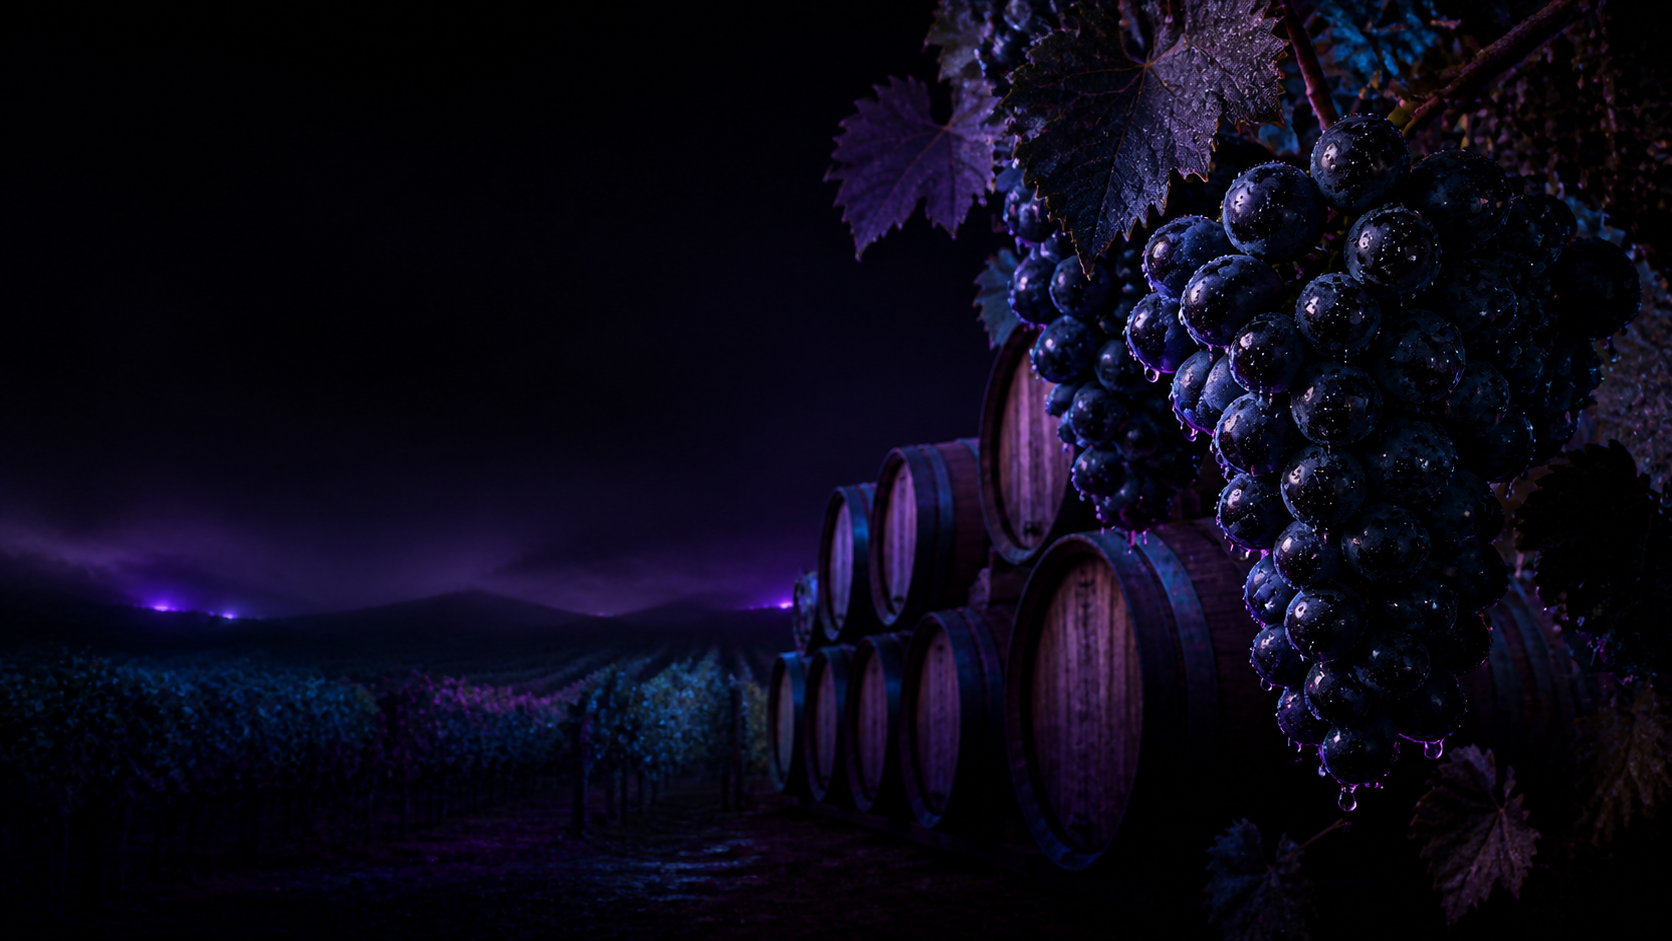
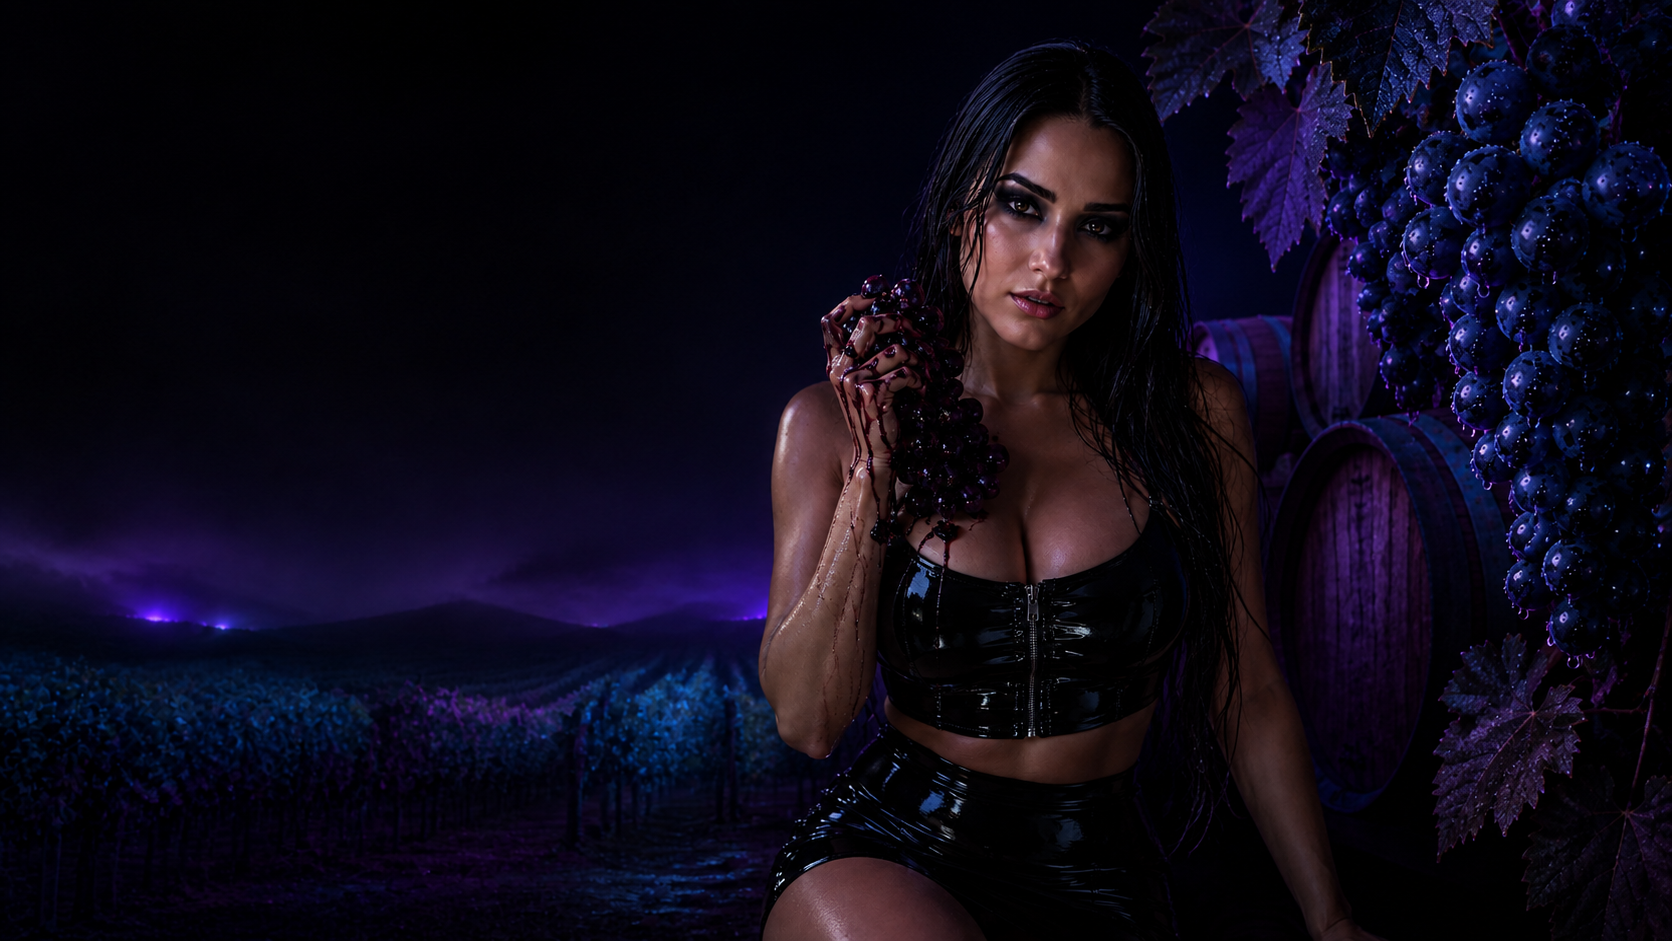
small grape fixes

diff --git a/web/templates/only_grapes.html b/web/templates/only_grapes.html
@@ -130,7 +130,7 @@
     {% if videos %}<section class="video-grid">
     {% for video in videos %}{% set video_comments = comments_by_video.get(video.id, []) %}
     <article class="video-card" id="video-{{ video.id }}">
-        <video controls preload="metadata" playsinline poster="{{ url_for('only_grapes_poster', video_id=video.id) }}"><source src="{{ url_for('only_grapes_video', video_id=video.id) }}" type="video/mp4"></video>
+        <video controls preload="metadata" playsinline data-play-url="{{ url_for('only_grapes_video_played', video_id=video.id) }}" poster="{{ url_for('only_grapes_poster', video_id=video.id) }}"><source src="{{ url_for('only_grapes_video', video_id=video.id) }}" type="video/mp4"></video>
         <div class="video-info"><h2>{{ video.title }}</h2>{% if video.description %}<p>{{ video.description }}</p>{% endif %}</div>
         <section class="comments" aria-label="Comments for {{ video.title }}">
             <div class="comments-head"><h3>Comments</h3><span class="comment-count">{{ video_comments|length }}</span></div>
@@ -147,6 +147,16 @@
 </div></main>
 {% endif %}
 <footer>{{ content.only_grapes_ai_notice }}</footer>
+{% if page == 'content' %}<script>
+document.querySelectorAll('video[data-play-url]').forEach((video) => {
+    video.addEventListener('playing', () => {
+        if (video.dataset.playCounted === '1') return;
+        video.dataset.playCounted = '1';
+        fetch(video.dataset.playUrl, {method: 'POST', credentials: 'same-origin', keepalive: true})
+            .catch(() => { video.dataset.playCounted = '0'; });
+    });
+});
+</script>{% endif %}
 {% endif %}
 </body>
 </html>

diff --git a/web/templates/only_grapes_admin.html b/web/templates/only_grapes_admin.html
@@ -90,9 +90,10 @@
         <div class="flex items-center gap-2">
             <label class="inline-flex items-center gap-2 px-3 py-2 text-gray-300 text-sm"><input type="checkbox" name="published" value="1" {% if video.published %}checked{% endif %}> Published</label>
             <button class="px-4 py-2 bg-discord-lighter hover:bg-gray-600 text-white rounded-lg text-sm">Save</button>
+            <button type="submit" name="action" value="optimize_video" class="px-3 py-2 border border-purple-500/40 bg-purple-500/10 text-purple-200 rounded-lg text-sm" title="Move the MP4 index to the beginning without re-encoding">Optimize playback</button>
             <button type="submit" name="action" value="delete_video" onclick="return confirm('Permanently delete this video?');" class="px-3 py-2 bg-red-500/15 border border-red-500/30 text-red-300 rounded-lg text-sm">Delete</button>
         </div>
-        <p class="lg:col-span-3 text-gray-600 text-xs">{{ video.original_filename }} · {{ video.duration_label }} · {{ video.size_label }}</p>
+        <p class="lg:col-span-3 text-gray-600 text-xs">{{ video.original_filename }} · {{ video.duration_label }} · {{ video.size_label }} · {{ video.play_count or 0 }} play{{ '' if (video.play_count or 0) == 1 else 's' }}</p>
     </form>
     {% endfor %}</div>
     {% else %}<p class="px-5 py-12 text-center text-gray-500">No videos uploaded yet.</p>{% endif %}

diff --git a/web/app.py b/web/app.py
@@ -215,7 +215,7 @@ def create_app(db: Database, bot=None) -> Quart:
     os.makedirs(only_grapes_video_dir, exist_ok=True)
     os.makedirs(only_grapes_asset_dir, exist_ok=True)
     for partial_name in os.listdir(only_grapes_video_dir):
-        if partial_name.endswith(".part"):
+        if partial_name.endswith((".part", ".optimized.mp4")):
             try:
                 os.remove(os.path.join(only_grapes_video_dir, partial_name))
             except OSError:
@@ -2024,6 +2024,21 @@ def create_app(db: Database, bot=None) -> Quart:
         )
         await proc.communicate()
 
+    async def _only_grapes_faststart(source_path: str, output_path: str) -> None:
+        proc = await asyncio.create_subprocess_exec(
+            "ffmpeg", "-y", "-v", "error", "-i", source_path,
+            "-map", "0", "-c", "copy", "-movflags", "+faststart", output_path,
+            stdout=asyncio.subprocess.DEVNULL,
+            stderr=asyncio.subprocess.PIPE,
+        )
+        _stdout, stderr = await proc.communicate()
+        if proc.returncode != 0 or not os.path.isfile(output_path):
+            detail = stderr.decode(errors="replace").strip()
+            raise ValueError(
+                "The MP4 could not be prepared for web playback."
+                + (f" {detail[-300:]}" if detail else "")
+            )
+
     @app.route("/only-grapes/assets/<filename>")
     async def only_grapes_asset(filename):
         from quart import abort, send_from_directory
@@ -2220,6 +2235,17 @@ def create_app(db: Database, bot=None) -> Quart:
             abort(404)
         return await send_file(path, mimetype="video/mp4", conditional=True)
 
+    @app.route("/only-grapes/video/<int:video_id>/played", methods=["POST"])
+    async def only_grapes_video_played(video_id: int):
+        from quart import abort
+        if not await _only_grapes_enabled() or not await _only_grapes_current_user():
+            abort(404)
+        video = await db.get_only_grapes_video(video_id)
+        if not video or not video.get("published"):
+            abort(404)
+        await db.increment_only_grapes_video_play_count(video_id)
+        return "", 204
+
     @app.route("/only-grapes/poster/<int:video_id>")
     async def only_grapes_poster(video_id: int):
         from quart import abort, send_file
@@ -2312,6 +2338,9 @@ def create_app(db: Database, bot=None) -> Quart:
                 else:
                     stored_name = f"{uuid.uuid4().hex}.mp4"
                     temp_path = os.path.join(only_grapes_video_dir, stored_name + ".part")
+                    optimized_path = os.path.join(
+                        only_grapes_video_dir, stored_name + ".optimized.mp4"
+                    )
                     final_path = os.path.join(only_grapes_video_dir, stored_name)
                     try:
                         await upload.save(temp_path)
@@ -2321,7 +2350,10 @@ def create_app(db: Database, bot=None) -> Quart:
                         duration = await _only_grapes_video_duration(temp_path)
                         if duration <= 0:
                             raise ValueError("The uploaded file is not a playable MP4 video.")
-                        os.replace(temp_path, final_path)
+                        await _only_grapes_faststart(temp_path, optimized_path)
+                        os.replace(optimized_path, final_path)
+                        os.remove(temp_path)
+                        size = os.path.getsize(final_path)
                         poster_path = os.path.join(
                             only_grapes_video_dir,
                             os.path.splitext(stored_name)[0] + ".square.jpg",
@@ -2349,10 +2381,14 @@ def create_app(db: Database, bot=None) -> Quart:
                     except ValueError as exc:
                         if os.path.isfile(temp_path):
                             os.remove(temp_path)
+                        if os.path.isfile(optimized_path):
+                            os.remove(optimized_path)
                         await flash(str(exc), "error")
                     except Exception as exc:
                         if os.path.isfile(temp_path):
                             os.remove(temp_path)
+                        if os.path.isfile(optimized_path):
+                            os.remove(optimized_path)
                         print(f"[only-grapes] Video upload failed: {exc}", flush=True)
                         await flash("The video could not be stored.", "error")
             elif action == "update_video":
@@ -2363,6 +2399,31 @@ def create_app(db: Database, bot=None) -> Quart:
                     published=form.get("published") == "1",
                 )
                 await flash("Video updated.", "success")
+            elif action == "optimize_video":
+                video_id = int(form.get("video_id") or 0)
+                video = await db.get_only_grapes_video(video_id)
+                if not video:
+                    await flash("Video not found.", "error")
+                else:
+                    filename = os.path.basename(video["stored_filename"])
+                    path = os.path.join(only_grapes_video_dir, filename)
+                    optimized_path = path + ".optimized.mp4"
+                    try:
+                        if filename != video["stored_filename"] or not os.path.isfile(path):
+                            raise ValueError("The stored video file is missing.")
+                        await _only_grapes_faststart(path, optimized_path)
+                        os.replace(optimized_path, path)
+                        await db.update_only_grapes_video_size(
+                            video_id, os.path.getsize(path)
+                        )
+                        await flash(
+                            "Video optimized for web playback without re-encoding.",
+                            "success",
+                        )
+                    except ValueError as exc:
+                        if os.path.isfile(optimized_path):
+                            os.remove(optimized_path)
+                        await flash(str(exc), "error")
             elif action == "delete_video":
                 video_id = int(form.get("video_id") or 0)
                 video = await db.get_only_grapes_video(video_id)

diff --git a/bot/database.py b/bot/database.py
@@ -177,6 +177,7 @@ class Database:
                 stored_filename TEXT NOT NULL UNIQUE,
                 size_bytes INTEGER NOT NULL,
                 duration_seconds REAL NOT NULL DEFAULT 0,
+                play_count INTEGER NOT NULL DEFAULT 0,
                 published INTEGER NOT NULL DEFAULT 1,
                 created_at REAL NOT NULL DEFAULT (unixepoch()),
                 updated_at REAL NOT NULL DEFAULT (unixepoch())
@@ -1177,6 +1178,17 @@ class Database:
             )
             await self.db.commit()
 
+        async with self.db.execute(
+            "PRAGMA table_info(only_grapes_videos)"
+        ) as cursor:
+            only_grapes_video_columns = {row[1] async for row in cursor}
+        if "play_count" not in only_grapes_video_columns:
+            await self.db.execute(
+                "ALTER TABLE only_grapes_videos "
+                "ADD COLUMN play_count INTEGER NOT NULL DEFAULT 0"
+            )
+            await self.db.commit()
+
         # Existing installations may have an explicit sidebar selection saved.
         # Add the new module once without overriding later user choices.
         async with self.db.execute(
@@ -1852,6 +1864,24 @@ class Database:
                 title.strip(), description.strip(), 1 if published else 0,
                 time.time(), int(video_id),
             ),
+        )
+        await self.db.commit()
+
+    async def increment_only_grapes_video_play_count(self, video_id: int) -> None:
+        await self.db.execute(
+            "UPDATE only_grapes_videos "
+            "SET play_count = play_count + 1 WHERE id = ? AND published = 1",
+            (int(video_id),),
+        )
+        await self.db.commit()
+
+    async def update_only_grapes_video_size(
+        self, video_id: int, size_bytes: int
+    ) -> None:
+        await self.db.execute(
+            "UPDATE only_grapes_videos SET size_bytes = ?, updated_at = ? "
+            "WHERE id = ?",
+            (int(size_bytes), time.time(), int(video_id)),
         )
         await self.db.commit()
 
